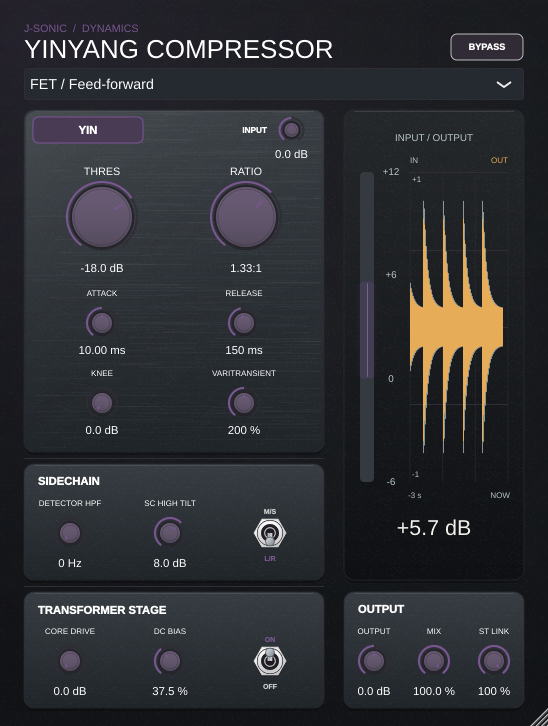
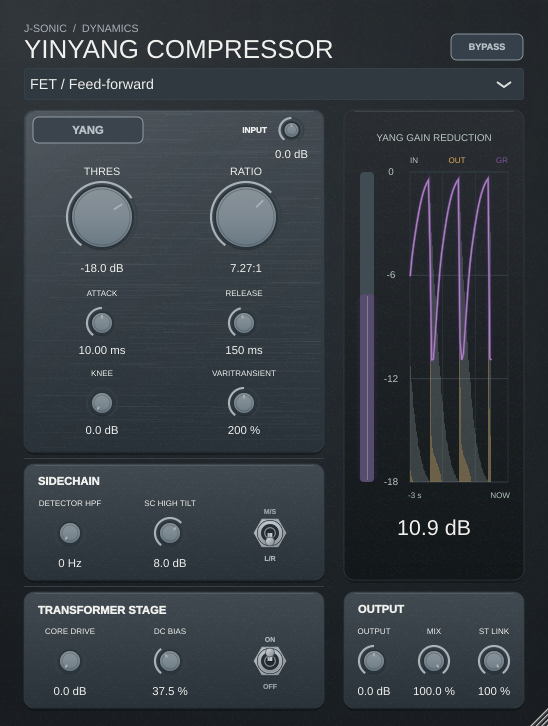
Overlay translucent Yinyang waveforms on the gain history dB axis

diff --git a/projects/YinyangCompressor/Source/PluginEditor.cpp b/projects/YinyangCompressor/Source/PluginEditor.cpp
@@ -2,13 +2,14 @@
 #include "../../EditorScaling.h"
 #include "../../EditorTooltips.h"
 #include "RatioMapping.h"
+#include "HistoryDisplayScale.h"
 
 YinyangCompressorEditor::YinyangCompressorEditor (YinyangCompressorProcessor& p)
     : AudioProcessorEditor (&p), processor (p)
 {
     addAndMakeVisible (titleHint);
     addAndMakeVisible (historyToggle);
-    historyToggle.setTooltip ("Click to switch between gain history and the uncompressed input and compressed output waveforms.");
+    historyToggle.setTooltip ("Click to show or hide translucent input and output waveforms behind the gain history.");
     historyToggle.setToggleState (processor.waveformDisplay.load(),juce::dontSendNotification);
     historyToggle.onClick = [this]
     {
@@ -543,16 +544,14 @@ void YinyangCompressorEditor::paintMeter (juce::Graphics& g)
     const auto waveformMode = historyToggle.getToggleState();
     g.setColour (juce::Colour (0xffb9c8c4));
     g.setFont (juce::FontOptions (11.0f));
-    g.drawText (waveformMode ? "INPUT / OUTPUT" : yinMode ? "YIN GAIN" : "YANG GAIN REDUCTION",
+    g.drawText (yinMode ? "YIN GAIN" : "YANG GAIN REDUCTION",
                 356, 158, 156, 20, juce::Justification::centred);
     const juce::Rectangle<float> bar (360, 202, 14, 310), plot (410, 202, 98, 310);
     g.setColour (theme.gaugeTrack);
     g.fillRoundedRectangle (bar, 4);
     const auto meterY = [&] (float db)
     {
-        return yinMode
-            ? plot.getY() + plot.getHeight() * (12.0f - db) / 18.0f
-            : plot.getY() + plot.getHeight() * db / GainReductionHistory::maxReductionDb;
+        return plot.getY()+plot.getHeight()*historyDisplay::positionForDb (yinMode ? db : -db,yinMode);
     };
     const auto tickStart = yinMode ? -6 : 0;
     const auto tickEnd = yinMode ? 12 : static_cast<int> (GainReductionHistory::maxReductionDb);
@@ -560,9 +559,10 @@ void YinyangCompressorEditor::paintMeter (juce::Graphics& g)
     {
         const auto y = meterY (static_cast<float> (db));
         g.setColour (theme.grid);
-        if (! waveformMode) g.drawLine (plot.getX(), y, plot.getRight(), y);
+        g.drawLine (plot.getX(), y, plot.getRight(), y);
         g.setColour (juce::Colour (0xffb9c8c4));
-        const auto caption = yinMode && db > 0 ? "+" + juce::String (db) : juce::String (db);
+        const auto caption = yinMode && db > 0 ? "+" + juce::String (db)
+                           : ! yinMode && waveformMode && db > 0 ? "-" + juce::String (db) : juce::String (db);
         g.drawText (caption, 378, juce::roundToInt (y) - 8, 26, 16, juce::Justification::centred);
     }
     for (int second = 0; second <= static_cast<int> (GainReductionHistory::duration); ++second)
@@ -593,7 +593,44 @@ void YinyangCompressorEditor::paintMeter (juce::Graphics& g)
         g.drawVerticalLine (juce::roundToInt (visibleFill.getCentreX()), visibleFill.getY() + 2, visibleFill.getBottom() - 2);
     }
     const auto now = juce::Time::getMillisecondCounterHiRes() * 0.001;
-    if (! waveformMode)
+    if (waveformMode)
+    {
+        const auto inputColour = juce::Colour (0xffb9c8c4);
+        const auto outputColour = juce::Colour (0xffe7ac58);
+        g.setFont (juce::FontOptions (9.f));
+        g.setColour (inputColour); g.drawText ("IN",410,183,25,15,juce::Justification::centredLeft);
+        g.setColour (outputColour); g.drawText ("OUT",442,183,30,15,juce::Justification::centred);
+        g.setColour (meterAccent); g.drawText (yinMode ? "GAIN" : "GR",478,183,30,15,juce::Justification::centredRight);
+        g.saveState(); g.reduceClipRegion (plot.toNearestInt());
+        std::array<WaveformHistory::Frame,100> columns {};
+        std::array<bool,100> valid {};
+        processor.waveform.visit (now,[&] (float position, const auto& frame)
+        {
+            const auto index = static_cast<size_t> (std::clamp (int(position*plot.getWidth()),0,int(plot.getWidth())-1));
+            auto& column = columns[index];
+            if (! valid[index]) { column = frame; valid[index] = true; }
+            else
+            {
+                column.inputMin = std::min (column.inputMin,frame.inputMin); column.inputMax = std::max (column.inputMax,frame.inputMax);
+                column.outputMin = std::min (column.outputMin,frame.outputMin); column.outputMax = std::max (column.outputMax,frame.outputMax);
+            }
+        });
+        for (int trace = 0; trace < 2; ++trace)
+        {
+            g.setColour (trace == 0 ? inputColour.withAlpha (historyDisplay::inputAlpha) : outputColour.withAlpha (historyDisplay::outputAlpha));
+            for (size_t i = 0; i < columns.size(); ++i)
+                if (valid[i])
+                {
+                    const auto& frame = columns[i];
+                    const auto position = historyDisplay::waveformPosition (trace == 0 ? frame.inputMin : frame.outputMin,
+                                                                          trace == 0 ? frame.inputMax : frame.outputMax,yinMode);
+                    const auto top = plot.getY()+position*plot.getHeight();
+                    if (top < plot.getBottom()) g.drawVerticalLine (int(plot.getX())+int(i),top,plot.getBottom());
+                }
+        }
+        g.restoreState();
+    }
+    // Keep the gain trace above the translucent waveform in both display modes.
     {
         juce::Path trace;
         bool started = false;
@@ -621,46 +658,6 @@ void YinyangCompressorEditor::paintMeter (juce::Graphics& g)
         g.strokePath (trace, juce::PathStrokeType (1.7f));
         g.setColour (juce::Colours::white.withAlpha (glow * 0.78f));
         g.strokePath (trace, juce::PathStrokeType (0.75f));
-        g.restoreState();
-    }
-    else
-    {
-        const auto inputColour = juce::Colour (0xffb9c8c4);
-        const auto outputColour = juce::Colour (0xffe7ac58);
-        g.setFont (juce::FontOptions (9.f));
-        g.setColour (inputColour); g.drawText ("IN",410,183,43,15,juce::Justification::centredLeft);
-        g.setColour (outputColour); g.drawText ("OUT",465,183,43,15,juce::Justification::centredRight);
-        g.saveState(); g.reduceClipRegion (plot.toNearestInt());
-        const auto yFor = [&] (float value) { return plot.getCentreY()-std::clamp (value,-1.f,1.f)*plot.getHeight()*.5f; };
-        g.setColour (theme.grid);
-        for (float level : {-1.f,-.5f,0.f,.5f,1.f}) g.drawHorizontalLine (juce::roundToInt (yFor (level)),plot.getX(),plot.getRight());
-        std::array<WaveformHistory::Frame,100> columns {};
-        std::array<bool,100> valid {};
-        processor.waveform.visit (now,[&] (float position, const auto& frame)
-        {
-            const auto index = static_cast<size_t> (std::clamp (int(position*plot.getWidth()),0,int(plot.getWidth())-1));
-            auto& column = columns[index];
-            if (! valid[index]) { column = frame; valid[index] = true; }
-            else
-            {
-                column.inputMin = std::min (column.inputMin,frame.inputMin); column.inputMax = std::max (column.inputMax,frame.inputMax);
-                column.outputMin = std::min (column.outputMin,frame.outputMin); column.outputMax = std::max (column.outputMax,frame.outputMax);
-            }
-        });
-        for (int trace = 0; trace < 2; ++trace)
-        {
-            g.setColour (trace == 0 ? inputColour.withAlpha (.7f) : outputColour);
-            for (size_t i = 0; i < columns.size(); ++i)
-                if (valid[i])
-                {
-                    const auto& frame = columns[i];
-                    const auto top = yFor (trace == 0 ? frame.inputMax : frame.outputMax);
-                    const auto bottom = yFor (trace == 0 ? frame.inputMin : frame.outputMin);
-                    g.drawVerticalLine (int(plot.getX())+int(i),top,std::max (top+.75f,bottom));
-                }
-        }
-        g.setColour (inputColour); g.drawText ("+1",412,203,24,12,juce::Justification::centredLeft);
-        g.drawText ("-1",412,498,24,12,juce::Justification::centredLeft);
         g.restoreState();
     }
     g.setColour (juce::Colour (0xffb9c8c4));

diff --git a/projects/YinyangCompressor/Tests/ProcessorTests.cpp b/projects/YinyangCompressor/Tests/ProcessorTests.cpp
@@ -1,5 +1,6 @@
 #include "../Source/PluginProcessor.h"
 #include "../Source/PluginEditor.h"
+#include "../Source/HistoryDisplayScale.h"
 #include <cstdlib>
 #include <iostream>
 #include <cstring>
@@ -30,6 +31,17 @@ void set (YinyangCompressorProcessor& p, const char* id, float value)
 
 void waveformTests()
 {
+    const auto minus6 = std::pow (10.f,-6.f/20.f);
+    check (std::abs (historyDisplay::waveformPosition (-minus6,minus6,false)-1.f/3) < 1.e-6f,
+           "minus-six-dBFS peaks align with the Yang six-dB reduction line");
+    check (std::abs (historyDisplay::waveformPosition (-minus6,minus6,true)-1) < 1.e-6f,
+           "minus-six-dBFS peaks align with the Yin minus-six-dB label");
+    check (std::abs (historyDisplay::waveformPosition (-.001f,std::pow(10.f,-12.f/20.f),false)-2.f/3) < 1.e-6f,
+           "minus-twelve-dBFS peaks align with the matching gain line");
+    check (std::abs (historyDisplay::waveformPosition (-1,0,false)) < 1.e-6f,
+           "one-sided envelope preserves negative-only full-scale peaks");
+    check (std::abs (historyDisplay::waveformPosition (0,0,false)-1) < 1.e-6f,
+           "silence collapses to the bottom of the envelope");
     WaveformHistory history; history.prepare (8000); history.beginBlock (3,24000);
     for (int i = 0; i < 24000; ++i)
         history.push ({i%40 == 0 ? .8f : 0.f,i%40 == 0 ? -.8f : 0.f},
@@ -485,36 +497,48 @@ int runTests (int argc, char** argv)
         check (! restored.waveformDisplay.load(),"clicking again restores gain history");
         if (argc > 3 && juce::String (argv[3]) == "--waveform")
         {
-            using Pair = std::array<float,2>;
-            std::vector<Pair> original, compressed; original.reserve (144000); compressed.reserve (144000);
-            juce::AudioBuffer<float> audio (2,256);
-            std::vector<Pair> source; source.reserve (144000);
+            // Stream real audio through the UI loop so GR and waveform share
+            // the same time window, rather than replaying an offline waveform.
+            set (restored,"upward",0);
+            juce::AudioBuffer<float> audio (2,1632);
             juce::MidiBuffer previewMidi;
-            for (int at = 0; at < 144000; at += 256)
+            int previewFrame = 0, samplePosition = 0;
+            displayToggle->setToggleState (true,juce::sendNotificationSync);
+            capture.tick = [&]
             {
-                const auto n = std::min (256,144000-at);
-                for (int sampleIndex = 0; sampleIndex < n; ++sampleIndex)
+                for (int sampleIndex = 0; sampleIndex < audio.getNumSamples(); ++sampleIndex)
                 {
-                    const auto time = (at+sampleIndex)/48000.;
+                    const auto time = (samplePosition+sampleIndex)/48000.;
                     const auto level = float(.12+.7*std::exp(-std::fmod(time,.6)*8));
                     const auto x = level*float(std::sin(juce::MathConstants<double>::twoPi*220*time));
                     audio.setSample (0,sampleIndex,x); audio.setSample (1,sampleIndex,-x);
-                    source.push_back ({x,-x});
                 }
-                if (n < audio.getNumSamples()) audio.setSize (2,n,true,false,true);
                 restored.processBlock (audio,previewMidi);
-                for (int sampleIndex = 0; sampleIndex < n; ++sampleIndex)
-                {
-                    const auto index = at+sampleIndex-character::Compressor::latencySamples;
-                    original.push_back (index >= 0 ? source[static_cast<size_t> (index)] : Pair {});
-                    compressed.push_back ({audio.getSample(0,sampleIndex),audio.getSample(1,sampleIndex)});
-                }
+                samplePosition += audio.getNumSamples();
+                if (++previewFrame == 90) juce::MessageManager::getInstance()->stopDispatchLoop();
+            };
+            // The earlier message loop has already received its quit message;
+            // pump the editor timers directly while streaming this preview.
+            for (int tick = 0; tick < 90; ++tick)
+            {
+                juce::Thread::sleep (34);
+                capture.tick();
+                juce::Timer::callPendingTimersSynchronously();
             }
-            restored.waveform.prepare (48000);
-            restored.waveform.beginBlock (juce::Time::getMillisecondCounterHiRes()*.001,144000);
-            for (size_t sampleIndex = 0; sampleIndex < original.size(); ++sampleIndex)
-                restored.waveform.push (original[sampleIndex],compressed[sampleIndex],2);
+            displayToggle->setToggleState (false,juce::sendNotificationSync);
+            const auto gainOnly = editor->createComponentSnapshot (editor->getLocalBounds());
             displayToggle->setToggleState (true,juce::sendNotificationSync);
+            const auto overlay = editor->createComponentSnapshot (editor->getLocalBounds());
+            int retainedInk = 0;
+            for (int y = 174; y < 480; ++y) for (int x = 411; x < 507; ++x)
+                if (gainOnly.getPixelAt(x,y).getBrightness() > .55f
+                    && closeColour(gainOnly.getPixelAt(x,y),overlay.getPixelAt(x,y),12)) ++retainedInk;
+            check (retainedInk > 5,"gain history remains visible above the translucent waveform overlay");
+            int translucentWavePixels = 0;
+            for (int y = 455; y < 478; ++y) for (int x = 411; x < 507; ++x)
+                if (! closeColour(gainOnly.getPixelAt(x,y),overlay.getPixelAt(x,y),10)
+                    && overlay.getPixelAt(x,y).getBrightness() < .55f) ++translucentWavePixels;
+            check (translucentWavePixels > 100,"actual waveform envelopes are present and translucent behind the gain history");
         }
         // Exercise actual component rendering, not only construction.
         auto image = editor->createComponentSnapshot (editor->getLocalBounds());

diff --git a/projects/YinyangCompressor/Source/HistoryDisplayScale.h b/projects/YinyangCompressor/Source/HistoryDisplayScale.h
@@ -1,0 +1,18 @@
+#pragma once
+#include <algorithm>
+#include <cmath>
+
+namespace historyDisplay
+{
+// Signed gain and waveform dBFS share the meter's axis: Yang 0..-18 dB,
+// Yin +12..-6 dB. The GR engine reports a positive reduction amount in Yang.
+inline float positionForDb (float db, bool yin) noexcept
+{ return ((yin ? 12.f : 0.f)-db)/18.f; }
+inline float waveformPosition (float minimum, float maximum, bool yin) noexcept
+{
+    const auto peak = std::max (std::abs (minimum),std::abs (maximum));
+    const auto db = 20.f*std::log10 (std::max (peak,1.e-5f));
+    return std::clamp (positionForDb (db,yin),0.f,1.f);
+}
+inline constexpr float inputAlpha = .22f, outputAlpha = .30f;
+}

diff --git a/projects/YinyangCompressor/Tests/Reports/waveform-history.md b/projects/YinyangCompressor/Tests/Reports/waveform-history.md
@@ -4,10 +4,13 @@ Version 0.5.0 · 2026-11-04 · Linux x86_64 / GCC 14.2 / Debug.
 
 ![Input and output waveform display](../../Previews/yinyang-waveform.png)
 
-Click the history plot to switch between gain history and paired waveform
-peaks; click again to return. Pale grey shows the original input and gold shows
+Click the history plot to show or hide waveform peaks behind the GR trace. Pale grey shows the original input and gold shows
 the actual plugin output, including Mix, Output and the transformer when enabled.
-Both use the same linear ±1 scale. The input reference follows the existing
+Both form one-sided, semi-transparent envelopes (22% input and 30% output
+opacity), with the GR history drawn last. Their logarithmic peak positions
+share the meter's signed gain axis: 0/−6/−12/−18 dB in Yang overlay mode,
++12/+6/0/−6 dB in Yin. A −6 dBFS peak aligns with the −6 dB label; quieter
+levels below the axis are clipped. There is no mirrored lower half. The input reference follows the existing
 64-sample dry delay, aligning it with the oversampled output. The gain bar and
 numeric gain readout remain available.
 
@@ -19,11 +22,14 @@ The editor aggregates them by pixel over three seconds of monotonic time.
 Validation passed:
 
 - VST3 and Standalone native builds.
-- 3,534 processor/editor assertions, including actual mouse down/up toggling,
+- 3,542 processor/editor assertions, including actual mouse down/up toggling,
   50%/120% hit targets, single-sample stereo peaks, ring wrapping and expiry,
   64-sample alignment, actual attenuation, and identical audio with/without
-  the waveform observer. Assertion counts include existing integration checks.
-- Existing DSP, upward-compression and oversampling suites: 3/3 passed.
+  the waveform observer. Added mapping checks cover −6/−12 dBFS, full scale,
+  silence and negative-only peaks; a native image check verifies the GR trace
+  survives the overlay while waveform pixels remain visible and translucent. Assertion counts include existing integration checks.
+- The preceding DSP, upward-compression and oversampling suites passed 3/3;
+  this update changes only display scaling and drawing.
 
 The preview uses a pulsed 220 Hz signal processed by the actual processor at
 the visible control settings. Stereo extrema are combined for the display;

diff --git a/projects/YinyangCompressor/README.md b/projects/YinyangCompressor/README.md
@@ -110,14 +110,19 @@ plug-in name. Sidechain combines Detector HPF, SC High Tilt, and Mid/Side.
 Transformer enable, Core Drive, and DC Bias share a Transformer Stage section.
 The compact analog switches show ON/OFF or M/S/L/R at either end of the lever.
 The history line runs oldest at left to current at right. **Click the trace to
-switch to waveform display**, then click again to restore gain history. The
+show the waveform overlay**, then click again to hide it. The
 waveform view overlays the uncompressed input in pale grey and the actual
-plugin output in gold on a shared linear ±1 scale. It includes Mix, Output and
+plugin output in gold as semi-transparent, one-sided peak envelopes behind
+the GR trace. Peaks use the same dB positions as the gain labels: −6 dBFS
+aligns with −6 dB, rather than using a separate linear amplitude scale. Yang's
+overlay labels show 0/−6/−12/−18 dB; Yin retains +12/+6/0/−6 dB. Lower levels
+fall below the plot. The envelopes fold positive and negative peaks into one
+magnitude, with no mirrored lower half. It includes Mix, Output and
 the optional transformer in the output trace. The original input is delayed by
 64 samples for visual alignment with the output. Signed min/max buckets at
 approximately 200 Hz preserve short transients and anti-phase stereo without
 mid-channel cancellation; the view covers the same three seconds and expires
-when audio stops. The gain bar and dB readout remain visible in both views.
+when audio stops. The GR history, gain bar and dB readout remain visible with the overlay on.
 The display choice is retained when reopening the editor on the same instance.
 
 ![Waveform view comparing input and output](Previews/yinyang-waveform.png)

diff --git a/projects/YinyangCompressor/TOOLTIPS.md b/projects/YinyangCompressor/TOOLTIPS.md
@@ -24,4 +24,4 @@
 | DC bias | Adds transformer asymmetry to increase even harmonics. |
 | VariTransient | Slows attack and speeds release as Yang gain reduction increases. |
 | SC High Tilt | Boosts high frequencies in the sidechain to increase their compression sensitivity. |
-| History display | Click to switch between gain history and the uncompressed input and compressed output waveforms. |
+| History display | Click to show or hide translucent input and output waveforms behind the gain history. |
